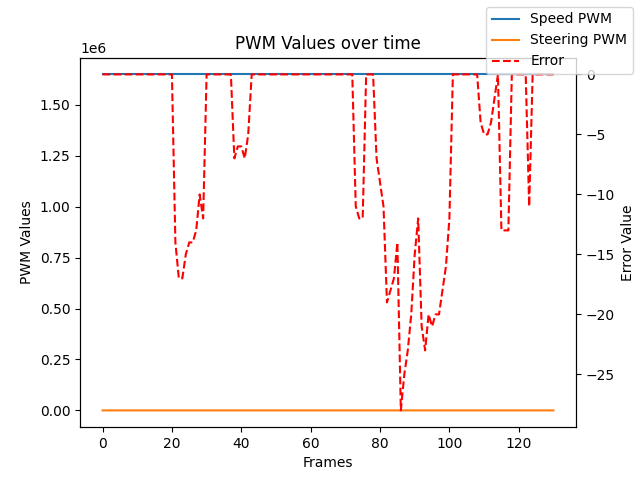
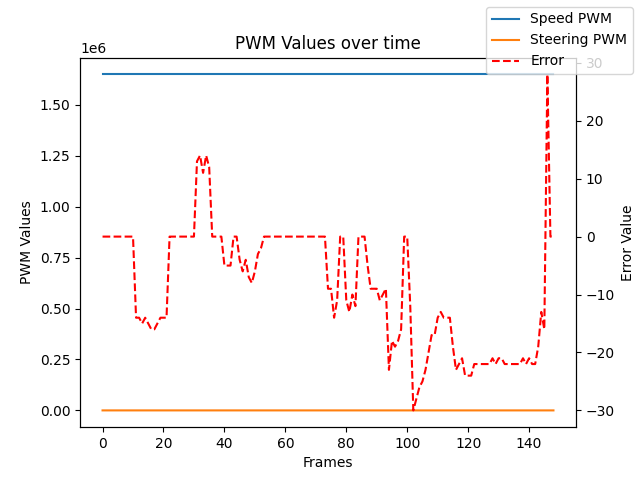
Work

diff --git a/LaneKeepingAlgorithm.py b/LaneKeepingAlgorithm.py
@@ -11,13 +11,13 @@ import time
 # based on: https://www.instructables.com/Autonomous-Lane-Keeping-Car-Using-Raspberry-Pi-and/
 
 # Throttle
-current_speed = 1550000
+current_speed = 1600000
 
 # Lists for graphs
 speed_list = []
 steering_list = []
 
-max_speed = 1600000
+max_speed = 1650000
 speed_step = 2500
 throttlePin = "P8_13"
 go_forward = 7.91
@@ -198,7 +198,7 @@ def go():
     current_speed = 1650000
 
     with open('/dev/bone/pwm/1/a/duty_cycle', 'w') as filetowrite:
-        filetowrite.write('1643000')
+        filetowrite.write('1644500')
 
 def boost():
     global current_speed
@@ -206,7 +206,7 @@ def boost():
     current_speed = 1655000
 
     with open('/dev/bone/pwm/1/a/duty_cycle', 'w') as filetowrite:
-        filetowrite.write('1644000')  
+        filetowrite.write('1650000')  
 
 
 
@@ -559,9 +559,9 @@ while counter < max_ticks:
                 time.sleep(4)
                 passedFirstStopSign = True
                 # this is used to not check for the second stop sign until many frames later
-                secondStopSignTick = counter + 15
+                secondStopSignTick = counter + 4       
                 # now check for stop sign less frequently
-                stopSignCheck = 3
+                stopSignCheck = 10
                 # add a delay to calling go faster
                 go_faster_tick = counter + go_faster_tick_delay
                 print("first stop finished!")
@@ -570,6 +570,8 @@ while counter < max_ticks:
 
         # check for the second stop sign
         elif passedFirstStopSign and counter > secondStopSignTick:
+            print(secondStopSignTick)
+            print (counter)
             isStop2SignBool, _ = isRedFloorVisible(frame)
             # print("is a floor stop: ", isStopSignBool)
             if isStop2SignBool:
